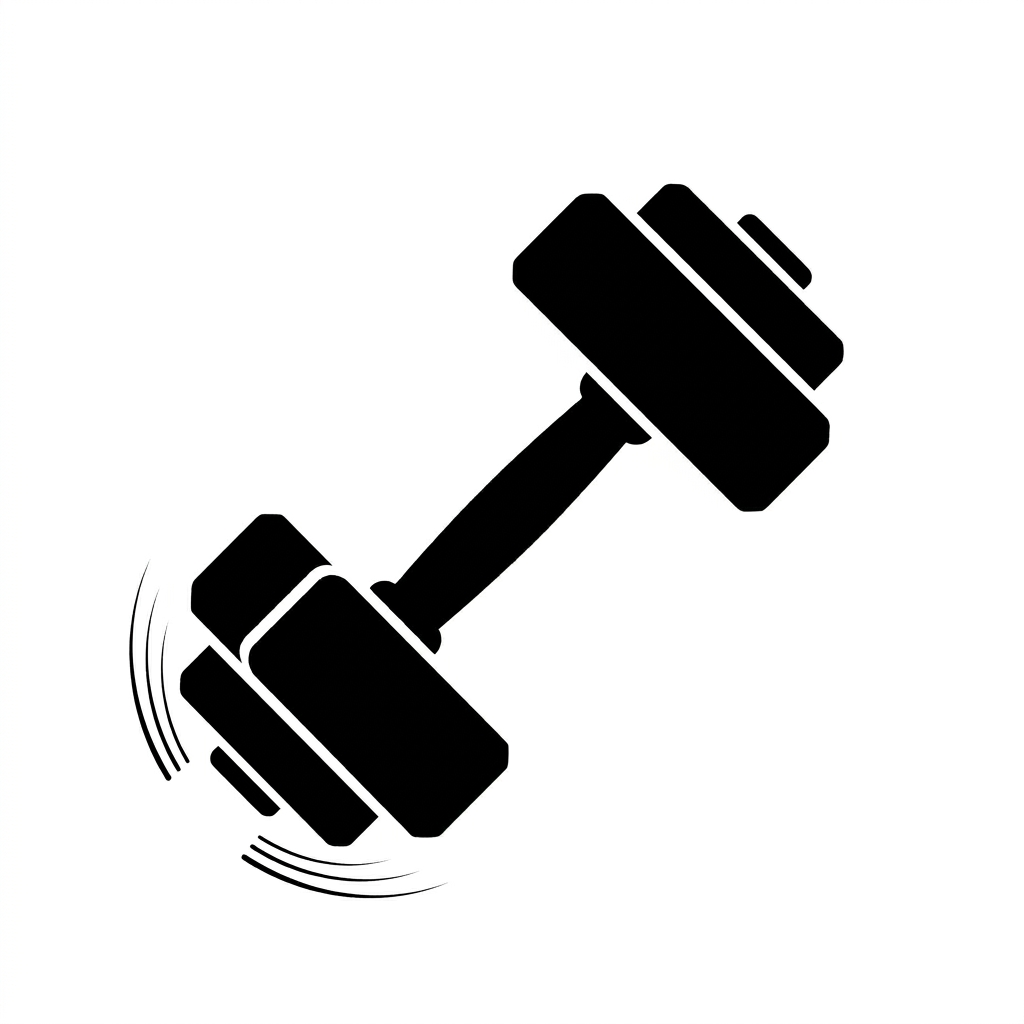
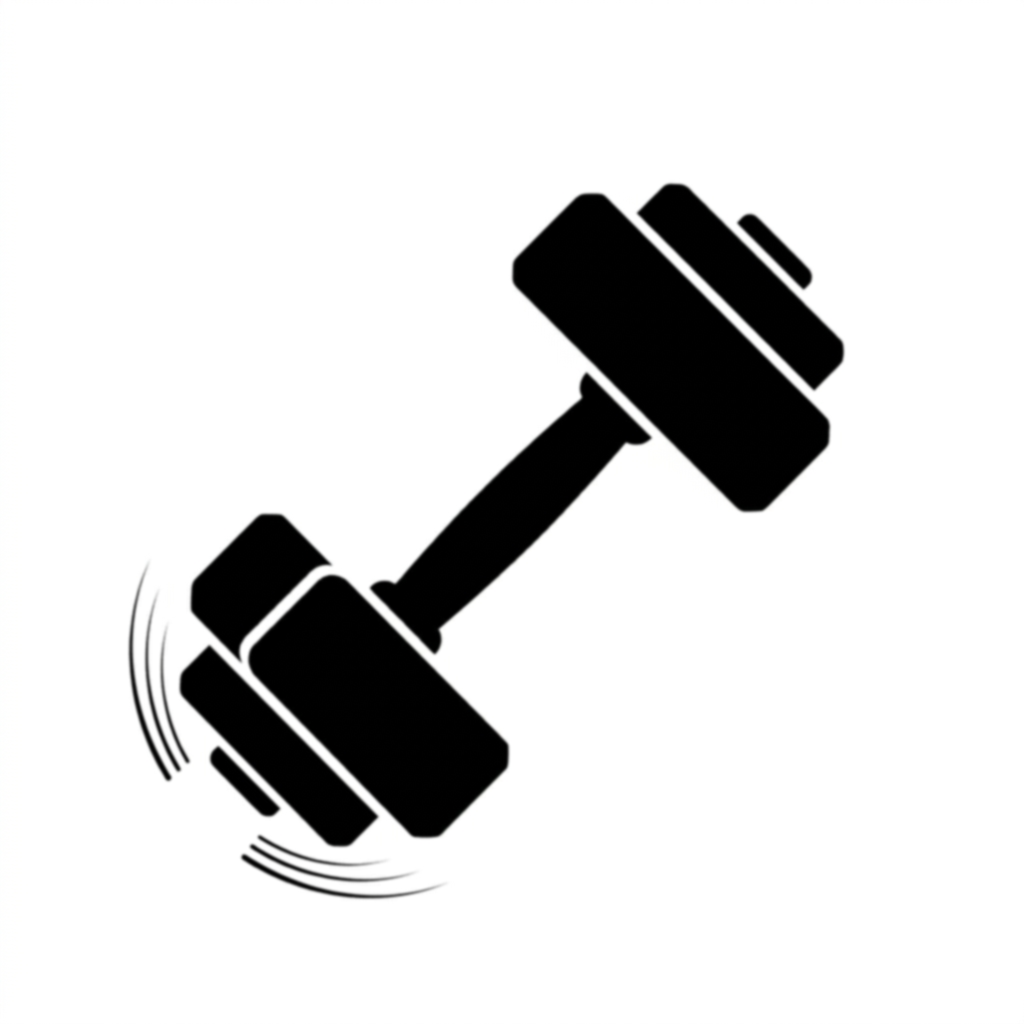
fix: Google Mobile Ads autolinking exclusion to fix FORGE crash
GADApplicationVerifyPublisherInitializedCorrectly crash caused by
react-native-google-mobile-ads being hoisted from @massapp/ads and
natively linked without an App ID.

- Add react-native.config.js to exclude from autolinking
- Add "react-native" exclusion to package.json
- Update app icon with blurred dumbbell asset

diff --git a/apps/fitness/react-native.config.js b/apps/fitness/react-native.config.js
@@ -1,0 +1,10 @@
+module.exports = {
+  dependencies: {
+    'react-native-google-mobile-ads': {
+      platforms: {
+        ios: null,
+        android: null,
+      },
+    },
+  },
+};
